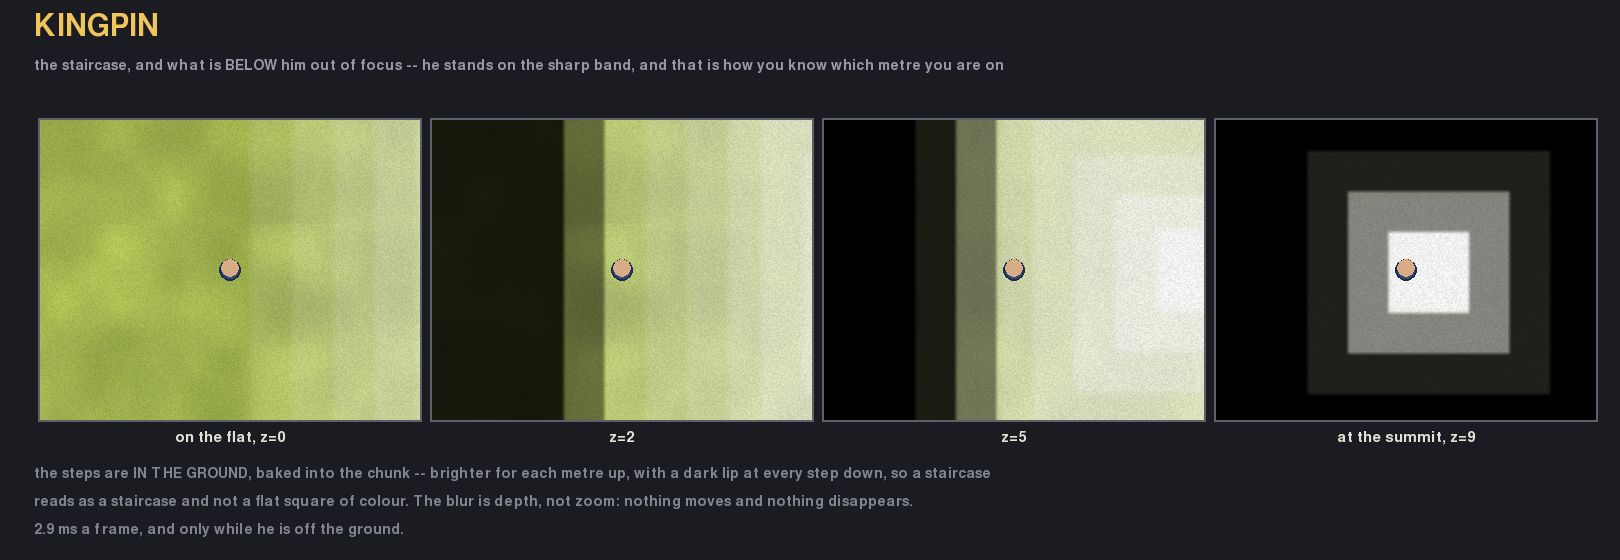
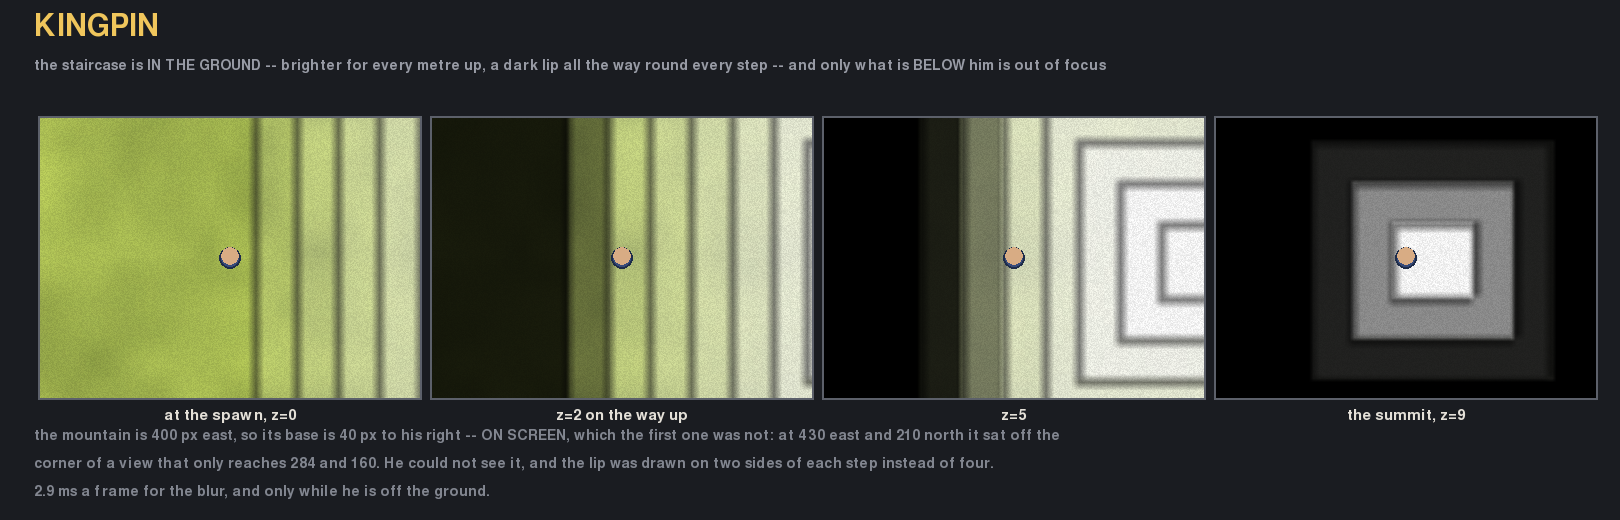
height: the crash, and two reasons the staircase could not be seen
1. THE CRASH. main.py has `from effects import DamageVignette, draw_alert`, so
   the MODULE `effects` was never bound -- and depth_blur is called as
   effects.depth_blur. The first frame above ground died with

       NameError: name 'effects' is not defined

   which is what "stepped on it and it insta-crashed" was. `import effects` is
   there now. Same shape as the LEVEL_FLASH crash this morning: reaching for a
   name that the import line never created.

2. IT WAS OFF THE SCREEN. The view is 568 by 320 WORLD pixels -- at ZOOM 2.25
   the window only shows that much of the map -- and the mountain was at 430
   east and 210 north, where the view ends at 284 and 160. So from the spawn it
   was not in shot at all and had to be walked to and found. It is at x=400,
   y=0 now: the base edge lands 40 px to his right, on screen, with the whole
   staircase climbing away to the east, and the spawn is still at height 0.

3. AND THE LIP WAS ON TWO SIDES OF EACH STEP, NOT FOUR. It sampled Y - 5 only,
   which catches the top and bottom edges of a SQUARE step and leaves the left
   and right ones bare -- so a line drawn across the staircase came back as a
   smooth brightening with no edges in it, which is exactly what a staircase
   must not look like. It samples X as well, and the line now shows a dip of
   about forty units at every boundary: 138 -> 102 at x=40, seven lips for
   eight steps.

The shading is louder too -- 0.13 rather than 0.11 of the way to white per
[…]

diff --git a/world.py b/world.py
@@ -269,9 +269,22 @@ class GroundRenderer:
         # paid for once.
         hz = terrain.height_array(X, Y)
         if hz.max() > 0.0:
-            col = col + (255.0 - col) * np.minimum(1.0, hz * 0.11)[..., None]
-            lip = terrain.height_array(X, Y - 3.0)
-            col[lip != hz] *= 0.52
+            # 0.11 was too quiet: at one metre that is eleven per cent of the
+            # way to white, which is a step you have to look for. At 0.13 the
+            # FIRST step already reads against the flat ground, which is the
+            # one that matters -- it is the one that tells you where it starts.
+            col = col + (255.0 - col) * np.minimum(1.0, hz * 0.13)[..., None]
+            # A WIDER LIP. Three pixels of world is seven on screen once the
+            # frame is blown up, which is a line -- but a staircase is read by
+            # its edges and there was not enough of one.
+            # BOTH WAYS, OR ONLY TWO SIDES OF EACH STEP GET A LINE. Sampling
+            # only Y - 5 catches the top and bottom edges of a square step and
+            # leaves the left and right ones bare -- so a line drawn across the
+            # staircase came out as a smooth brightening with no edges in it at
+            # all, which is exactly what a staircase must not look like.
+            lip = ((terrain.height_array(X, Y - 5.0) != hz)
+                   | (terrain.height_array(X - 5.0, Y) != hz))
+            col[lip] *= 0.52
 
         # Player-made soil edits: dug dirt, then watered (fertile) dirt. Each
         # tile paints a soft blob, and blobs merge naturally where they overlap.

diff --git a/terrain.py b/terrain.py
@@ -21,8 +21,16 @@ from __future__ import annotations
 import numpy as np
 
 # THE STAIRCASE, just east of the spawn at (0, 0).
-MOUNT_X = 430.0          # its centre
-MOUNT_Y = -210.0
+# RIGHT IN FRONT OF HIM, and that is not cosmetic. The view is 568 by 320 world
+# pixels -- at ZOOM 2.25 the window only shows 568 by 320 of the world -- so a
+# mountain 479 px away on the diagonal is OFF SCREEN, which is where the first
+# one was: 430 px east and 210 north, with the view ending at 284 and 160. He
+# could not see it from the spawn and had to walk to find it.
+#
+# At x=400 the base edge lands at x=40 -- forty pixels to his right, on screen,
+# with the whole staircase climbing away to the east.
+MOUNT_X = 400.0          # its centre
+MOUNT_Y = 0.0
 MOUNT_TOP = 9            # how many metres up the middle is
 STEP = 40.0              # how much ground one metre of climb takes
 

diff --git a/main.py b/main.py
@@ -49,6 +49,7 @@ import observer
 # ImportError at the moment of a death -- and the except that guards the call
 # would swallow it, and every death would go unrecorded with no sign why.
 import deaths
+import effects
 import terrain
 import tournament
 import village as village_mod
